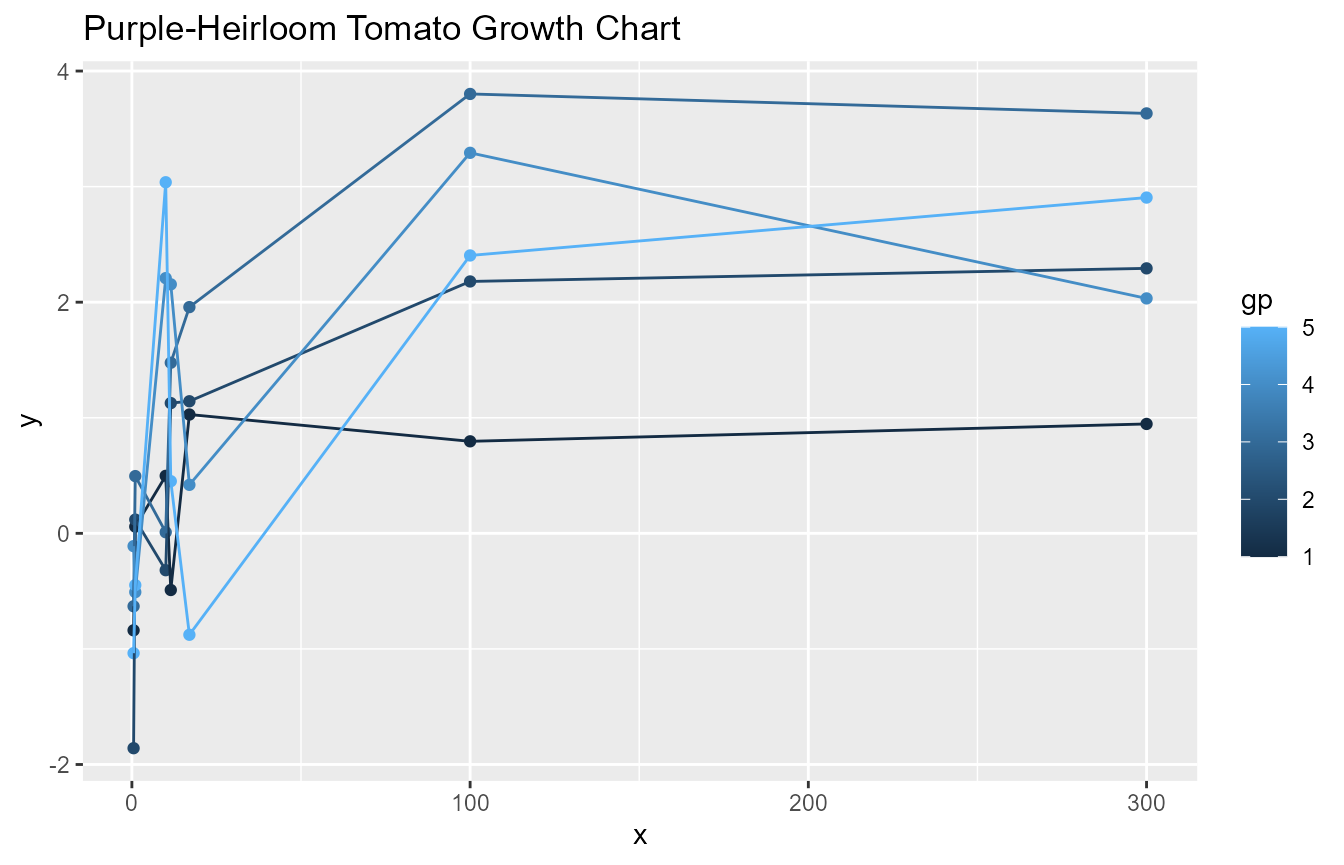
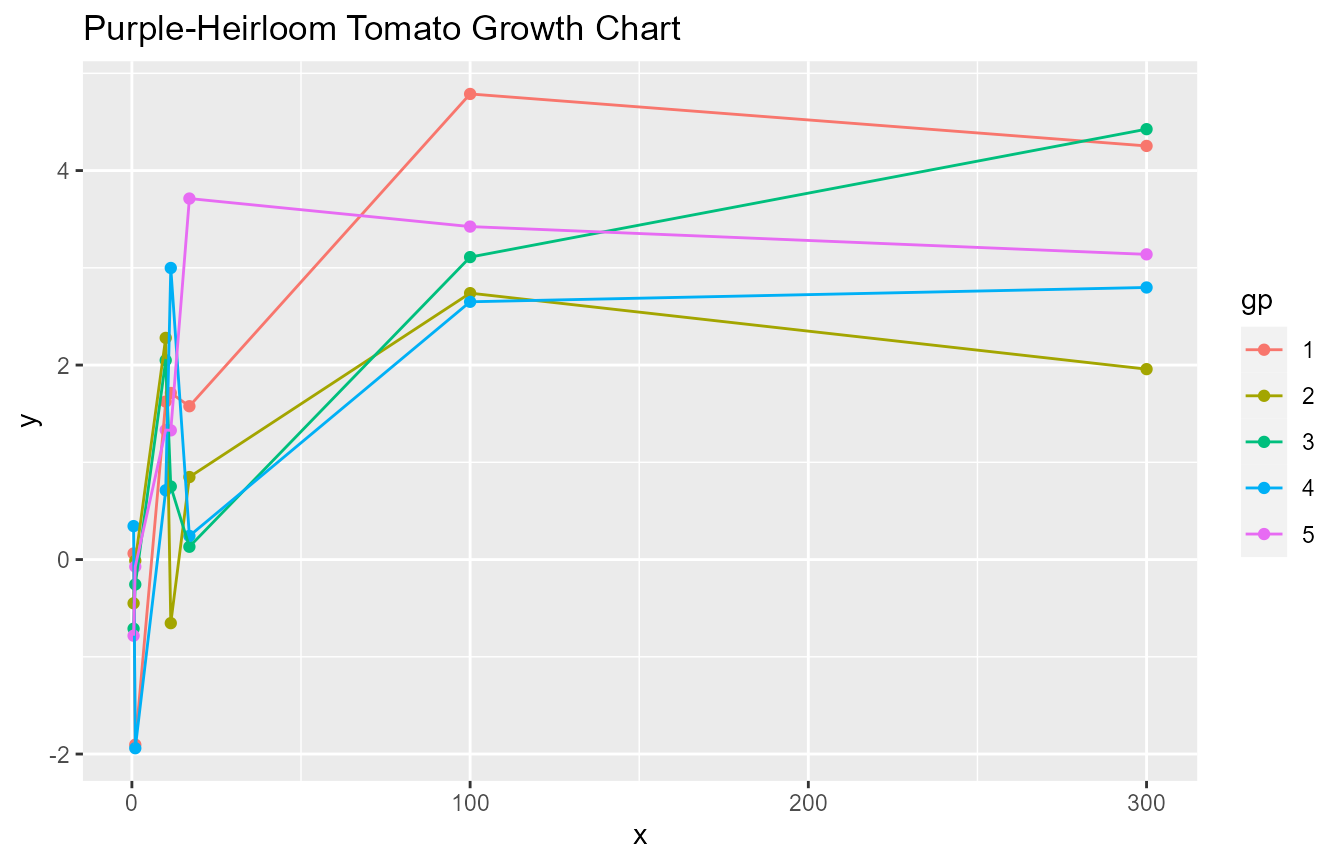
v0.1.5

diff --git a/docs/articles/vignette_mtb_timerelated.html b/docs/articles/vignette_mtb_timerelated.html
@@ -26,7 +26,7 @@
     
     <a class="navbar-brand me-2" href="../index.html">mtb</a>
 
-    <small class="nav-text text-muted me-auto" data-bs-toggle="tooltip" data-bs-placement="bottom" title="">0.1.4</small>
+    <small class="nav-text text-muted me-auto" data-bs-toggle="tooltip" data-bs-placement="bottom" title="">0.1.5</small>
 
     
     <button class="navbar-toggler" type="button" data-bs-toggle="collapse" data-bs-target="#navbar" aria-controls="navbar" aria-expanded="false" aria-label="Toggle navigation">
@@ -74,7 +74,7 @@
       <img src="" class="logo" alt=""><h1>vignette_mtb_time_related</h1>
                         <h4 data-toc-skip class="author">Y. Hsu</h4>
             
-            <h4 data-toc-skip class="date">2022-01-01</h4>
+            <h4 data-toc-skip class="date">2022-01-09</h4>
       
       <small class="dont-index">Source: <a href="https://github.com/yh202109/mtb/blob/HEAD/vignettes/vignette_mtb_timerelated.Rmd" class="external-link"><code>vignettes/vignette_mtb_timerelated.Rmd</code></a></small>
       <div class="d-none name"><code>vignette_mtb_timerelated.Rmd</code></div>
@@ -119,14 +119,14 @@
 <p>The <code><a href="../reference/time_plot_event.html">time_plot_event()</a></code> function creates a simplified timeline plot.</p>
 <div class="sourceCode" id="cb4"><pre class="downlit sourceCode r">
 <code class="sourceCode R"><span class="va">dt</span> <span class="op">=</span> <span class="fu"><a href="https://rdrr.io/r/base/data.frame.html" class="external-link">data.frame</a></span><span class="op">(</span> id<span class="op">=</span><span class="fu"><a href="https://rdrr.io/r/base/c.html" class="external-link">c</a></span><span class="op">(</span><span class="fu"><a href="https://rdrr.io/r/base/rep.html" class="external-link">rep</a></span><span class="op">(</span><span class="st">'Sous Chef'</span>,<span class="fl">3</span><span class="op">)</span>, <span class="fu"><a href="https://rdrr.io/r/base/rep.html" class="external-link">rep</a></span><span class="op">(</span><span class="st">'Both'</span>,<span class="fl">3</span><span class="op">)</span>, <span class="fu"><a href="https://rdrr.io/r/base/rep.html" class="external-link">rep</a></span><span class="op">(</span><span class="st">'Chef'</span>,<span class="fl">4</span><span class="op">)</span><span class="op">)</span>, idn<span class="op">=</span><span class="fu"><a href="https://rdrr.io/r/base/c.html" class="external-link">c</a></span><span class="op">(</span><span class="fu"><a href="https://rdrr.io/r/base/rep.html" class="external-link">rep</a></span><span class="op">(</span><span class="fl">1</span>,<span class="fl">3</span><span class="op">)</span>,<span class="fu"><a href="https://rdrr.io/r/base/rep.html" class="external-link">rep</a></span><span class="op">(</span><span class="op">-</span><span class="fl">1</span>,<span class="fl">3</span><span class="op">)</span>, <span class="fu"><a href="https://rdrr.io/r/base/rep.html" class="external-link">rep</a></span><span class="op">(</span><span class="fl">2</span>,<span class="fl">4</span><span class="op">)</span><span class="op">)</span>, start<span class="op">=</span><span class="fl">1800</span><span class="op">*</span><span class="fu"><a href="https://rdrr.io/r/base/c.html" class="external-link">c</a></span><span class="op">(</span><span class="fl">0</span>,<span class="fl">1</span>,<span class="fl">2</span>, <span class="fl">0.5</span>, <span class="fl">1.2</span>, <span class="fl">3</span>, <span class="fl">1</span>,<span class="fl">2</span>,<span class="fl">3</span>,<span class="fl">4</span><span class="op">)</span>, end<span class="op">=</span><span class="fl">1800</span><span class="op">*</span><span class="fu"><a href="https://rdrr.io/r/base/c.html" class="external-link">c</a></span><span class="op">(</span><span class="fl">3.5</span>,<span class="cn">NA</span>,<span class="fl">3</span>, <span class="fl">2</span>, <span class="fl">6</span>, <span class="cn">NA</span>, <span class="fl">2</span>,<span class="fl">3.5</span>,<span class="fl">3</span>, <span class="fl">3.5</span><span class="op">)</span>,
-label<span class="op">=</span><span class="fu"><a href="https://rdrr.io/r/base/c.html" class="external-link">c</a></span><span class="op">(</span><span class="st">'Turkey'</span>, <span class="st">'Watch Temp'</span>, <span class="st">'Gravy'</span>, <span class="st">'Stuffing'</span>, <span class="st">'Whipped Cream'</span>, <span class="st">'Cookie'</span>, <span class="st">'Cranberry'</span>, <span class="st">'Potato'</span>, <span class="st">'Green Bean'</span>, <span class="st">'Pumpkin Pie'</span><span class="op">)</span>, type<span class="op">=</span><span class="fu"><a href="https://rdrr.io/r/base/c.html" class="external-link">c</a></span><span class="op">(</span><span class="st">'b'</span>, <span class="st">'p'</span>, <span class="st">'i'</span>,<span class="st">'i'</span>,<span class="st">'p'</span>,<span class="st">'p'</span>,<span class="st">'p'</span>,<span class="st">'b'</span>,<span class="st">'i'</span>,<span class="st">'i'</span> <span class="op">)</span> <span class="op">)</span>
+label<span class="op">=</span><span class="fu"><a href="https://rdrr.io/r/base/c.html" class="external-link">c</a></span><span class="op">(</span><span class="st">'Turkey'</span>, <span class="st">'Watch Temp'</span>, <span class="st">'Gravy'</span>, <span class="st">'Stuffing'</span>, <span class="st">'Whipped Cream'</span>, <span class="st">'Cookie'</span>, <span class="st">'Cranberry'</span>, <span class="st">'Potato'</span>, <span class="st">'Green Bean'</span>, <span class="st">'Pumpkin Pie'</span><span class="op">)</span>, labelend<span class="op">=</span><span class="fu"><a href="https://rdrr.io/r/base/c.html" class="external-link">c</a></span><span class="op">(</span><span class="st">''</span>, <span class="st">''</span>, <span class="st">'?'</span>, <span class="st">')'</span>, <span class="st">'not shown'</span>, <span class="st">''</span>, <span class="st">''</span>, <span class="st">''</span>, <span class="st">'||'</span>, <span class="st">''</span><span class="op">)</span>, type<span class="op">=</span><span class="fu"><a href="https://rdrr.io/r/base/c.html" class="external-link">c</a></span><span class="op">(</span><span class="st">'b'</span>, <span class="st">'p'</span>, <span class="st">'i'</span>,<span class="st">'i'</span>,<span class="st">'p'</span>,<span class="st">'p'</span>,<span class="st">'p'</span>,<span class="st">'b'</span>,<span class="st">'i'</span>,<span class="st">'i'</span> <span class="op">)</span> <span class="op">)</span>
 <span class="va">dt</span><span class="op">[</span><span class="fl">1</span><span class="op">:</span><span class="fl">5</span>,<span class="op">]</span>
-<span class="co">#&gt;          id idn start   end         label type</span>
-<span class="co">#&gt; 1 Sous Chef   1     0  6300        Turkey    b</span>
-<span class="co">#&gt; 2 Sous Chef   1  1800    NA    Watch Temp    p</span>
-<span class="co">#&gt; 3 Sous Chef   1  3600  5400         Gravy    i</span>
-<span class="co">#&gt; 4      Both  -1   900  3600      Stuffing    i</span>
-<span class="co">#&gt; 5      Both  -1  2160 10800 Whipped Cream    p</span></code></pre></div>
+<span class="co">#&gt;          id idn start   end         label  labelend type</span>
+<span class="co">#&gt; 1 Sous Chef   1     0  6300        Turkey              b</span>
+<span class="co">#&gt; 2 Sous Chef   1  1800    NA    Watch Temp              p</span>
+<span class="co">#&gt; 3 Sous Chef   1  3600  5400         Gravy         ?    i</span>
+<span class="co">#&gt; 4      Both  -1   900  3600      Stuffing         )    i</span>
+<span class="co">#&gt; 5      Both  -1  2160 10800 Whipped Cream not shown    p</span></code></pre></div>
 <div class="sourceCode" id="cb5"><pre class="downlit sourceCode r">
 <code class="sourceCode R"><span class="fu"><a href="../reference/time_plot_event.html">time_plot_event</a></span><span class="op">(</span> <span class="va">dt</span> <span class="op">)</span> </code></pre></div>
 <p><img src="vignette_mtb_timerelated_files/figure-html/unnamed-chunk-4-1.png" width="700"></p>

diff --git a/docs/articles/vignette_mtb_axis.html b/docs/articles/vignette_mtb_axis.html
@@ -26,7 +26,7 @@
     
     <a class="navbar-brand me-2" href="../index.html">mtb</a>
 
-    <small class="nav-text text-muted me-auto" data-bs-toggle="tooltip" data-bs-placement="bottom" title="">0.1.4</small>
+    <small class="nav-text text-muted me-auto" data-bs-toggle="tooltip" data-bs-placement="bottom" title="">0.1.5</small>
 
     
     <button class="navbar-toggler" type="button" data-bs-toggle="collapse" data-bs-target="#navbar" aria-controls="navbar" aria-expanded="false" aria-label="Toggle navigation">
@@ -74,7 +74,7 @@
       <img src="" class="logo" alt=""><h1>vignette_mtb_axis</h1>
                         <h4 data-toc-skip class="author">Y. Hsu</h4>
             
-            <h4 data-toc-skip class="date">2022-01-01</h4>
+            <h4 data-toc-skip class="date">2022-01-09</h4>
       
       <small class="dont-index">Source: <a href="https://github.com/yh202109/mtb/blob/HEAD/vignettes/vignette_mtb_axis.Rmd" class="external-link"><code>vignettes/vignette_mtb_axis.Rmd</code></a></small>
       <div class="d-none name"><code>vignette_mtb_axis.Rmd</code></div>
@@ -96,7 +96,7 @@
 <div class="sourceCode" id="cb1"><pre class="downlit sourceCode r">
 <code class="sourceCode R"><span class="kw"><a href="https://rdrr.io/r/base/library.html" class="external-link">library</a></span><span class="op">(</span><span class="va"><a href="https://github.com/yh202109/mtb" class="external-link">mtb</a></span><span class="op">)</span>
 <span class="kw"><a href="https://rdrr.io/r/base/library.html" class="external-link">library</a></span><span class="op">(</span><span class="va"><a href="https://ggplot2.tidyverse.org" class="external-link">ggplot2</a></span><span class="op">)</span>
-<span class="va">pdt</span><span class="op">=</span><span class="fu"><a href="https://rdrr.io/r/base/data.frame.html" class="external-link">data.frame</a></span><span class="op">(</span>x<span class="op">=</span><span class="fu"><a href="https://rdrr.io/r/base/rep.html" class="external-link">rep</a></span><span class="op">(</span><span class="fu"><a href="https://rdrr.io/r/base/c.html" class="external-link">c</a></span><span class="op">(</span><span class="fl">0.5</span>, <span class="fl">1</span>, <span class="fl">10</span>,<span class="fl">11.5</span>,<span class="fl">17</span>, <span class="fl">100</span>, <span class="fl">300</span><span class="op">)</span>, each<span class="op">=</span><span class="fl">5</span><span class="op">)</span>, gp<span class="op">=</span><span class="fu"><a href="https://rdrr.io/r/base/rep.html" class="external-link">rep</a></span><span class="op">(</span><span class="fu"><a href="https://rdrr.io/r/base/seq.html" class="external-link">seq</a></span><span class="op">(</span><span class="fl">1</span>,<span class="fl">5</span><span class="op">)</span>,<span class="fl">7</span><span class="op">)</span><span class="op">)</span>
+<span class="va">pdt</span><span class="op">=</span><span class="fu"><a href="https://rdrr.io/r/base/data.frame.html" class="external-link">data.frame</a></span><span class="op">(</span>x<span class="op">=</span><span class="fu"><a href="https://rdrr.io/r/base/rep.html" class="external-link">rep</a></span><span class="op">(</span><span class="fu"><a href="https://rdrr.io/r/base/c.html" class="external-link">c</a></span><span class="op">(</span><span class="fl">0.5</span>, <span class="fl">1</span>, <span class="fl">10</span>,<span class="fl">11.5</span>,<span class="fl">17</span>, <span class="fl">100</span>, <span class="fl">300</span><span class="op">)</span>, each<span class="op">=</span><span class="fl">5</span><span class="op">)</span>, gp<span class="op">=</span><span class="fu"><a href="https://rdrr.io/r/base/factor.html" class="external-link">factor</a></span><span class="op">(</span><span class="fu"><a href="https://rdrr.io/r/base/rep.html" class="external-link">rep</a></span><span class="op">(</span><span class="fu"><a href="https://rdrr.io/r/base/seq.html" class="external-link">seq</a></span><span class="op">(</span><span class="fl">1</span>,<span class="fl">5</span><span class="op">)</span>,<span class="fl">7</span><span class="op">)</span><span class="op">)</span><span class="op">)</span>
 <span class="va">pdt</span><span class="op">$</span><span class="va">y</span><span class="op">=</span><span class="fu"><a href="https://rdrr.io/r/base/Log.html" class="external-link">log10</a></span><span class="op">(</span><span class="va">pdt</span><span class="op">$</span><span class="va">x</span><span class="op">)</span><span class="op">+</span><span class="fu"><a href="https://rdrr.io/r/stats/Normal.html" class="external-link">rnorm</a></span><span class="op">(</span><span class="fu"><a href="https://rdrr.io/r/base/length.html" class="external-link">length</a></span><span class="op">(</span><span class="va">pdt</span><span class="op">$</span><span class="va">x</span><span class="op">)</span><span class="op">)</span>
 <span class="va">p</span><span class="op">=</span><span class="fu"><a href="https://ggplot2.tidyverse.org/reference/ggplot.html" class="external-link">ggplot</a></span><span class="op">(</span><span class="va">pdt</span>, <span class="fu"><a href="https://ggplot2.tidyverse.org/reference/aes.html" class="external-link">aes</a></span><span class="op">(</span>x<span class="op">=</span><span class="va">x</span>, y<span class="op">=</span><span class="va">y</span>, group<span class="op">=</span><span class="va">gp</span>, color<span class="op">=</span><span class="va">gp</span><span class="op">)</span><span class="op">)</span><span class="op">+</span><span class="fu"><a href="https://ggplot2.tidyverse.org/reference/geom_point.html" class="external-link">geom_point</a></span><span class="op">(</span><span class="op">)</span><span class="op">+</span><span class="fu"><a href="https://ggplot2.tidyverse.org/reference/geom_path.html" class="external-link">geom_line</a></span><span class="op">(</span><span class="op">)</span><span class="op">+</span>
   <span class="fu"><a href="https://ggplot2.tidyverse.org/reference/labs.html" class="external-link">ggtitle</a></span><span class="op">(</span><span class="st">"Purple-Heirloom Tomato Growth Chart"</span><span class="op">)</span>

diff --git a/docs/reference/time_plot_event.html b/docs/reference/time_plot_event.html
@@ -10,7 +10,7 @@
     
     <a class="navbar-brand me-2" href="../index.html">mtb</a>
 
-    <small class="nav-text text-muted me-auto" data-bs-toggle="tooltip" data-bs-placement="bottom" title="">0.1.4</small>
+    <small class="nav-text text-muted me-auto" data-bs-toggle="tooltip" data-bs-placement="bottom" title="">0.1.5</small>
 
     
     <button class="navbar-toggler" type="button" data-bs-toggle="collapse" data-bs-target="#navbar" aria-controls="navbar" aria-expanded="false" aria-label="Toggle navigation">
@@ -71,6 +71,7 @@
 <li><p>startfor starting time</p></li>
 <li><p>endfor ending time with arrow head</p></li>
 <li><p>labelfor labeling the starting time</p></li>
+<li><p>labelendfor labeling the ending time of a interval</p></li>
 <li><p>typefor event type as one of p (point), i (interval), b (box)</p></li>
 </ul></dd>
 <dt>xlab</dt>
@@ -92,7 +93,9 @@
 <span class="r-in">idn<span class="op">=</span><span class="fu"><a href="https://rdrr.io/r/base/c.html" class="external-link">c</a></span><span class="op">(</span><span class="fu"><a href="https://rdrr.io/r/base/rep.html" class="external-link">rep</a></span><span class="op">(</span><span class="fl">1</span>,<span class="fl">3</span><span class="op">)</span>,<span class="fu"><a href="https://rdrr.io/r/base/rep.html" class="external-link">rep</a></span><span class="op">(</span><span class="op">-</span><span class="fl">1</span>,<span class="fl">3</span><span class="op">)</span>, <span class="fu"><a href="https://rdrr.io/r/base/rep.html" class="external-link">rep</a></span><span class="op">(</span><span class="fl">2</span>,<span class="fl">4</span><span class="op">)</span><span class="op">)</span>,</span>
 <span class="r-in">start<span class="op">=</span><span class="fl">1800</span><span class="op">*</span><span class="fu"><a href="https://rdrr.io/r/base/c.html" class="external-link">c</a></span><span class="op">(</span><span class="fl">0</span>,<span class="fl">1</span>,<span class="fl">2</span>, <span class="fl">0.5</span>, <span class="fl">1.2</span>, <span class="fl">3</span>, <span class="fl">1</span>,<span class="fl">2</span>,<span class="fl">3</span>,<span class="fl">4</span><span class="op">)</span>,</span>
 <span class="r-in">end<span class="op">=</span><span class="fl">1800</span><span class="op">*</span><span class="fu"><a href="https://rdrr.io/r/base/c.html" class="external-link">c</a></span><span class="op">(</span><span class="fl">2</span>,<span class="cn">NA</span>,<span class="fl">3</span>, <span class="fl">2</span>, <span class="fl">6</span>, <span class="cn">NA</span>, <span class="fl">2</span>,<span class="fl">2.5</span>,<span class="fl">3</span>, <span class="fl">3.5</span><span class="op">)</span>,</span>
-<span class="r-in">label<span class="op">=</span><span class="fu"><a href="https://rdrr.io/r/base/c.html" class="external-link">c</a></span><span class="op">(</span><span class="fu"><a href="https://rdrr.io/r/base/paste.html" class="external-link">paste</a></span><span class="op">(</span><span class="st">'event-'</span>,<span class="fu"><a href="https://rdrr.io/r/base/seq.html" class="external-link">seq</a></span><span class="op">(</span><span class="fl">1</span>,<span class="fl">10</span><span class="op">)</span>,sep<span class="op">=</span><span class="st">''</span><span class="op">)</span><span class="op">)</span>, type<span class="op">=</span><span class="fu"><a href="https://rdrr.io/r/base/c.html" class="external-link">c</a></span><span class="op">(</span><span class="st">'b'</span>, <span class="st">'p'</span>, <span class="st">'i'</span>,<span class="st">'i'</span>,<span class="st">'p'</span>,<span class="st">'p'</span>,<span class="st">'p'</span>,<span class="st">'b'</span>,<span class="st">'i'</span>,<span class="st">'i'</span> <span class="op">)</span> <span class="op">)</span></span>
+<span class="r-in">label<span class="op">=</span><span class="fu"><a href="https://rdrr.io/r/base/c.html" class="external-link">c</a></span><span class="op">(</span><span class="fu"><a href="https://rdrr.io/r/base/paste.html" class="external-link">paste</a></span><span class="op">(</span><span class="st">'event-'</span>,<span class="fu"><a href="https://rdrr.io/r/base/seq.html" class="external-link">seq</a></span><span class="op">(</span><span class="fl">1</span>,<span class="fl">10</span><span class="op">)</span>,sep<span class="op">=</span><span class="st">''</span><span class="op">)</span><span class="op">)</span>,</span>
+<span class="r-in">labelend<span class="op">=</span><span class="fu"><a href="https://rdrr.io/r/base/c.html" class="external-link">c</a></span><span class="op">(</span><span class="st">''</span>,<span class="st">''</span>,<span class="st">'?'</span>,<span class="st">')'</span>,<span class="st">''</span>,<span class="st">''</span>,<span class="st">''</span>,<span class="st">''</span>,<span class="st">'&gt;'</span>,<span class="st">'X'</span><span class="op">)</span>,</span>
+<span class="r-in">type<span class="op">=</span><span class="fu"><a href="https://rdrr.io/r/base/c.html" class="external-link">c</a></span><span class="op">(</span><span class="st">'b'</span>, <span class="st">'p'</span>, <span class="st">'i'</span>,<span class="st">'i'</span>,<span class="st">'p'</span>,<span class="st">'p'</span>,<span class="st">'p'</span>,<span class="st">'b'</span>,<span class="st">'i'</span>,<span class="st">'i'</span> <span class="op">)</span> <span class="op">)</span></span>
 <span class="r-in"><span class="fu">time_plot_event</span><span class="op">(</span> <span class="va">dt</span> <span class="op">)</span></span>
 <span class="r-plt img"><img src="time_plot_event-1.png" alt="" width="700" height="433"></span>
 <span class="r-in"></span>

diff --git a/docs/index.html b/docs/index.html
@@ -38,7 +38,7 @@
     
     <a class="navbar-brand me-2" href="index.html">mtb</a>
 
-    <small class="nav-text text-muted me-auto" data-bs-toggle="tooltip" data-bs-placement="bottom" title="">0.1.4</small>
+    <small class="nav-text text-muted me-auto" data-bs-toggle="tooltip" data-bs-placement="bottom" title="">0.1.5</small>
 
     
     <button class="navbar-toggler" type="button" data-bs-toggle="collapse" data-bs-target="#navbar" aria-controls="navbar" aria-expanded="false" aria-label="Toggle navigation">
@@ -86,7 +86,7 @@
 </h1></div>
 <!-- badges: start -->
 
-<p>This package is one of the author’s weekend projects. The purpose of this package is to share a collection of functions for weekend kitchen and garden tasks, e.g. making plant growth charts or Thanksgiving oven timeline plot, etc. Functions might include but not limited to: (1) aiding summarizing time related data; (2) generating axis transformation from data; and (3) aiding <code>Markdown</code> (with <code>HTML</code> output) and <code>Shiny</code> files editing.</p>
+<p>The purpose of this package is to share a collection of functions the author wrote during weekends for managing kitchen and garden tasks, e.g. making plant growth charts or Thanksgiving kitchen schedule charts, etc. Functions might include but not limited to: (1) aiding summarizing time related data; (2) generating axis transformation from data; and (3) aiding <code>Markdown</code> (with <code>HTML</code> output) and <code>Shiny</code> files editing.</p>
 <div class="section level2">
 <h2 id="installation">Installation<a class="anchor" aria-label="anchor" href="#installation"></a>
 </h2>
@@ -186,7 +186,6 @@ THIS SOFTWARE IS PROVIDED BY THE COPYRIGHT HOLDERS AND CONTRIBUTORS AS IS AND AN
 <ul class="list-unstyled">
 <li><a href="https://CRAN.R-project.org/package=mtb" class="external-link"><img src="https://www.r-pkg.org/badges/version/mtb" alt="CRAN status"></a></li>
 <li><a href="https://lifecycle.r-lib.org/articles/stages.html#experimental" class="external-link"><img src="https://img.shields.io/badge/lifecycle-experimental-orange.svg" alt="Lifecycle: experimental"></a></li>
-<li><a href="https://github.com/yh202109/mtb/issues" class="external-link"><img src="reference/figures/contributions-welcome-brightgreen.svg" alt="contributions welcome"></a></li>
 </ul>
 </div>
 

diff --git a/docs/news/index.html b/docs/news/index.html
@@ -10,7 +10,7 @@
     
     <a class="navbar-brand me-2" href="../index.html">mtb</a>
 
-    <small class="nav-text text-muted me-auto" data-bs-toggle="tooltip" data-bs-placement="bottom" title="">0.1.4</small>
+    <small class="nav-text text-muted me-auto" data-bs-toggle="tooltip" data-bs-placement="bottom" title="">0.1.5</small>
 
     
     <button class="navbar-toggler" type="button" data-bs-toggle="collapse" data-bs-target="#navbar" aria-controls="navbar" aria-expanded="false" aria-label="Toggle navigation">
@@ -54,9 +54,9 @@
     </div>
 
     <div class="section level2">
-<h2 class="pkg-version" data-toc-text="0.1.4" id="mtb-014">mtb 0.1.4<a class="anchor" aria-label="anchor" href="#mtb-014"></a></h2>
+<h2 class="pkg-version" data-toc-text="0.1.5" id="mtb-015">mtb 0.1.5<a class="anchor" aria-label="anchor" href="#mtb-015"></a></h2>
 <div class="section level3">
-<h3 id="major-changes-0-1-4">Major changes<a class="anchor" aria-label="anchor" href="#major-changes-0-1-4"></a></h3>
+<h3 id="major-changes-0-1-5">Major changes<a class="anchor" aria-label="anchor" href="#major-changes-0-1-5"></a></h3>
 </div>
 </div>
     <div class="section level2">

diff --git a/docs/authors.html b/docs/authors.html
@@ -10,7 +10,7 @@
     
     <a class="navbar-brand me-2" href="index.html">mtb</a>
 
-    <small class="nav-text text-muted me-auto" data-bs-toggle="tooltip" data-bs-placement="bottom" title="">0.1.4</small>
+    <small class="nav-text text-muted me-auto" data-bs-toggle="tooltip" data-bs-placement="bottom" title="">0.1.5</small>
 
     
     <button class="navbar-toggler" type="button" data-bs-toggle="collapse" data-bs-target="#navbar" aria-controls="navbar" aria-expanded="false" aria-label="Toggle navigation">
@@ -67,13 +67,13 @@
 
       <p>Hsu Y (2022).
 <em>mtb: Toolkit for Assisting Kitchen and Garden Projects</em>.
-R package version 0.1.4, <a href="https://github.com/yh202109/mtb" class="external-link">https://github.com/yh202109/mtb</a>. 
+R package version 0.1.5, <a href="https://github.com/yh202109/mtb" class="external-link">https://github.com/yh202109/mtb</a>. 
 </p>
       <pre>@Manual{,
   title = {mtb: Toolkit for Assisting Kitchen and Garden Projects},
   author = {Y Hsu},
   year = {2022},
-  note = {R package version 0.1.4},
+  note = {R package version 0.1.5},
   url = {https://github.com/yh202109/mtb},
 }</pre>
     </div>

diff --git a/docs/articles/vignette_mtb_color.html b/docs/articles/vignette_mtb_color.html
@@ -26,7 +26,7 @@
     
     <a class="navbar-brand me-2" href="../index.html">mtb</a>
 
-    <small class="nav-text text-muted me-auto" data-bs-toggle="tooltip" data-bs-placement="bottom" title="">0.1.4</small>
+    <small class="nav-text text-muted me-auto" data-bs-toggle="tooltip" data-bs-placement="bottom" title="">0.1.5</small>
 
     
     <button class="navbar-toggler" type="button" data-bs-toggle="collapse" data-bs-target="#navbar" aria-controls="navbar" aria-expanded="false" aria-label="Toggle navigation">
@@ -74,7 +74,7 @@
       <img src="" class="logo" alt=""><h1>vignette_mtb_color</h1>
                         <h4 data-toc-skip class="author">Y. Hsu</h4>
             
-            <h4 data-toc-skip class="date">2022-01-01</h4>
+            <h4 data-toc-skip class="date">2022-01-09</h4>
       
       <small class="dont-index">Source: <a href="https://github.com/yh202109/mtb/blob/HEAD/vignettes/vignette_mtb_color.Rmd" class="external-link"><code>vignettes/vignette_mtb_color.Rmd</code></a></small>
       <div class="d-none name"><code>vignette_mtb_color.Rmd</code></div>

diff --git a/docs/articles/vignette_mtb_md.html b/docs/articles/vignette_mtb_md.html
@@ -26,7 +26,7 @@
     
     <a class="navbar-brand me-2" href="../index.html">mtb</a>
 
-    <small class="nav-text text-muted me-auto" data-bs-toggle="tooltip" data-bs-placement="bottom" title="">0.1.4</small>
+    <small class="nav-text text-muted me-auto" data-bs-toggle="tooltip" data-bs-placement="bottom" title="">0.1.5</small>
 
     
     <button class="navbar-toggler" type="button" data-bs-toggle="collapse" data-bs-target="#navbar" aria-controls="navbar" aria-expanded="false" aria-label="Toggle navigation">
@@ -74,7 +74,7 @@
       <img src="" class="logo" alt=""><h1>vignette_mtb_markdown</h1>
                         <h4 data-toc-skip class="author">Y. Hsu</h4>
             
-            <h4 data-toc-skip class="date">2022-01-01</h4>
+            <h4 data-toc-skip class="date">2022-01-09</h4>
       
       <small class="dont-index">Source: <a href="https://github.com/yh202109/mtb/blob/HEAD/vignettes/vignette_mtb_md.Rmd" class="external-link"><code>vignettes/vignette_mtb_md.Rmd</code></a></small>
       <div class="d-none name"><code>vignette_mtb_md.Rmd</code></div>

diff --git a/docs/reference/add_colored_box.html b/docs/reference/add_colored_box.html
@@ -12,7 +12,7 @@ with specified color and styles."><!-- mathjax --><script src="https://cdnjs.clo
     
     <a class="navbar-brand me-2" href="../index.html">mtb</a>
 
-    <small class="nav-text text-muted me-auto" data-bs-toggle="tooltip" data-bs-placement="bottom" title="">0.1.4</small>
+    <small class="nav-text text-muted me-auto" data-bs-toggle="tooltip" data-bs-placement="bottom" title="">0.1.5</small>
 
     
     <button class="navbar-toggler" type="button" data-bs-toggle="collapse" data-bs-target="#navbar" aria-controls="navbar" aria-expanded="false" aria-label="Toggle navigation">

diff --git a/docs/reference/add_colored_str.html b/docs/reference/add_colored_str.html
@@ -12,7 +12,7 @@ with specified color and styles."><!-- mathjax --><script src="https://cdnjs.clo
     
     <a class="navbar-brand me-2" href="../index.html">mtb</a>
 
-    <small class="nav-text text-muted me-auto" data-bs-toggle="tooltip" data-bs-placement="bottom" title="">0.1.4</small>
+    <small class="nav-text text-muted me-auto" data-bs-toggle="tooltip" data-bs-placement="bottom" title="">0.1.5</small>
 
     
     <button class="navbar-toggler" type="button" data-bs-toggle="collapse" data-bs-target="#navbar" aria-controls="navbar" aria-expanded="false" aria-label="Toggle navigation">

diff --git a/docs/reference/trans_composition.html b/docs/reference/trans_composition.html
@@ -14,7 +14,7 @@ or ggplot::scale_y_continuous() to create a desired axis."><!-- mathjax --><scri
     
     <a class="navbar-brand me-2" href="../index.html">mtb</a>
 
-    <small class="nav-text text-muted me-auto" data-bs-toggle="tooltip" data-bs-placement="bottom" title="">0.1.4</small>
+    <small class="nav-text text-muted me-auto" data-bs-toggle="tooltip" data-bs-placement="bottom" title="">0.1.5</small>
 
     
     <button class="navbar-toggler" type="button" data-bs-toggle="collapse" data-bs-target="#navbar" aria-controls="navbar" aria-expanded="false" aria-label="Toggle navigation">

diff --git a/docs/reference/trans_loglinear.html b/docs/reference/trans_loglinear.html
@@ -14,7 +14,7 @@ or ggplot::scale_y_continuous() to create a desired axis."><!-- mathjax --><scri
     
     <a class="navbar-brand me-2" href="../index.html">mtb</a>
 
-    <small class="nav-text text-muted me-auto" data-bs-toggle="tooltip" data-bs-placement="bottom" title="">0.1.4</small>
+    <small class="nav-text text-muted me-auto" data-bs-toggle="tooltip" data-bs-placement="bottom" title="">0.1.5</small>
 
     
     <button class="navbar-toggler" type="button" data-bs-toggle="collapse" data-bs-target="#navbar" aria-controls="navbar" aria-expanded="false" aria-label="Toggle navigation">
